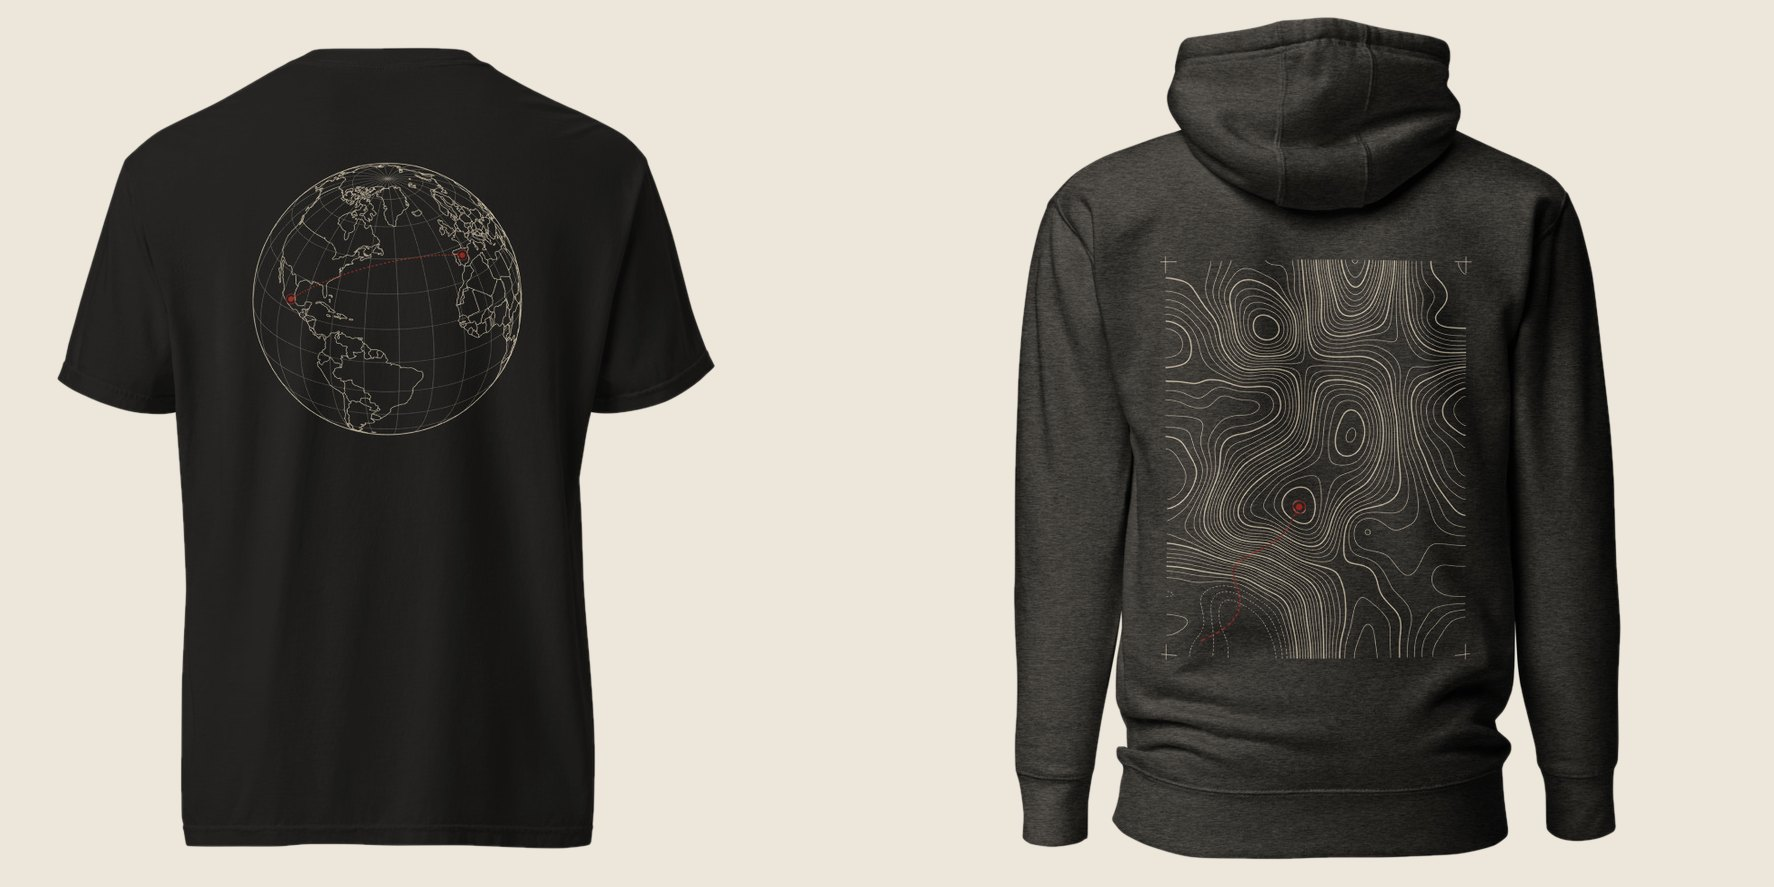
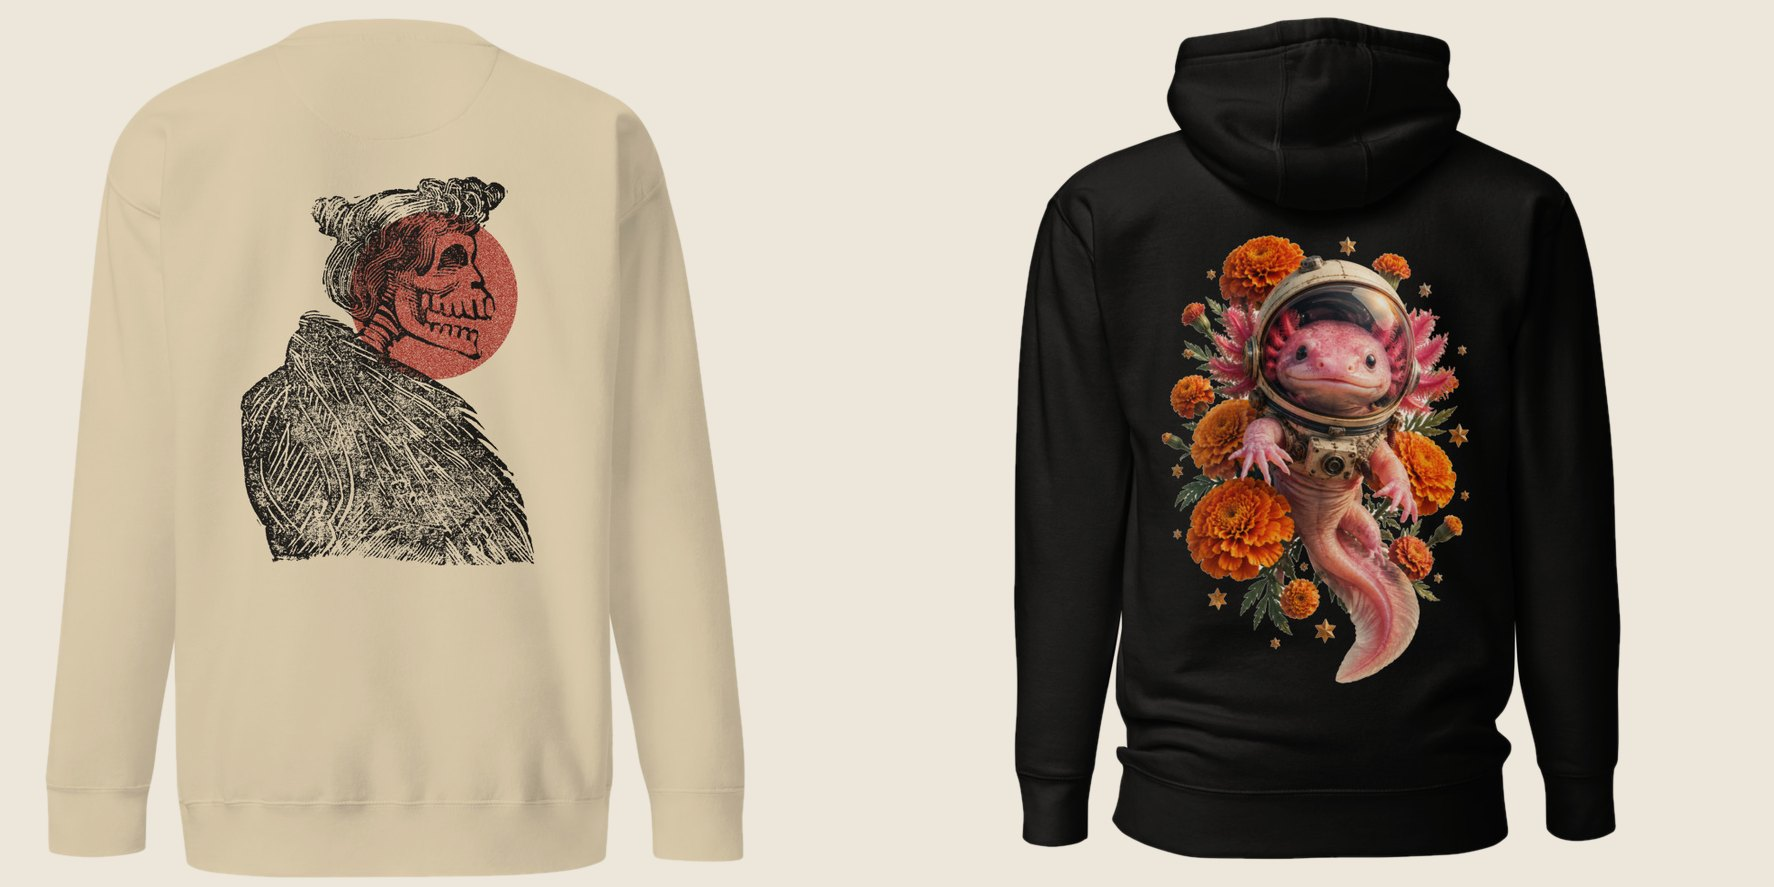
Portada con la colección realista y kit de lanzamiento para redes
Claude-Session: https://claude.ai/code/session_013DNV1jFrcSM7ktCTz4AAyr

diff --git a/index.html b/index.html
@@ -24,7 +24,7 @@
 
   <main>
     <section class="hero">
-      <img class="hero__img" src="assets/img/hero-studio.jpg" alt="Hoodie Escalera al sol y playeras Topografía y Ciudad a pulso">
+      <img class="hero__img" src="assets/img/hero-studio.jpg" alt="Hoodie Jaguar y playeras Ajolote astronauta y La ola">
       <div class="wrap hero__content">
         <p class="label">Drop 01 · CORE &amp; STUDIO</p>
         <h1>Hecho<br>a pulso.</h1>
@@ -57,7 +57,7 @@
 
     <section class="section section--dark">
       <div class="wrap split">
-        <img src="assets/img/studio-duo.jpg" alt="Playera Beyond Borders y hoodie Topografía" loading="lazy">
+        <img src="assets/img/studio-duo.jpg" alt="Crewneck Calavera y hoodie Ajolote astronauta" loading="lazy">
         <div>
           <p class="label">La marca</p>
           <h2>Tu ritmo.<br>Tu camino.</h2>

diff --git a/docs/lanzamiento.md b/docs/lanzamiento.md
@@ -1,0 +1,62 @@
+# Lanzamiento HSTLRS: plan para empezar a vender
+
+Tienda: **https://hstlrs-shop.github.io** · Pago seguro con Shopify · WhatsApp 55 8014 9227
+
+Las imágenes están en `docs/redes/` (formato 1080×1350, listo para Instagram, Facebook y TikTok).
+
+## 1. Hoy (30 min)
+
+1. Crea **@hstlrs** en Instagram y TikTok (cuenta de empresa, categoría "Tienda de ropa").
+   - Bio: `Ropa con arte. Hecha a pulso en México 🇲🇽 · Pide en la web 👇`
+   - Enlace: https://hstlrs-shop.github.io
+2. Sube los 8 posts en carrusel o uno por día (textos abajo).
+3. Manda el enlace por WhatsApp a tus contactos y súbelo a tus estados: los primeros pedidos casi siempre salen de ahí.
+4. Shopify → **Canales de ventas** → agrega **Facebook e Instagram** y **Google y YouTube**: tus productos salen gratis en Instagram Shopping y en Google Shopping.
+
+## 2. Textos para publicar
+
+**Post 1 · Hoodie Jaguar ($1,299)**
+> El jaguar no pide permiso. 🐆🔴
+> Hoodie de felpa premium con arte realista en la espalda. Hecho bajo pedido para ti.
+> 🛒 Enlace en la bio · Envío a todo México
+> #streetwearmexico #ropamexicana #hoodie #jaguar #modaurbana #hechoenmexico
+
+**Post 2 · Playera Ajolote astronauta ($849)**
+> El ajolote más lejos de Xochimilco que verás hoy. 🚀🌼
+> Arte a todo color sobre playera pesada Comfort Colors.
+> 🛒 Enlace en la bio
+> #ajolote #axolotl #cempasuchil #playerasmexico #streetwear #arte
+
+**Post 3 · Playera La ola ($849)**
+> La gran ola, con nuestro sol rojo. 🌊🔴
+> Grabado clásico reinterpretado sobre playera marfil.
+> #hokusai #thegreatwave #arteenropa #streetwearmx
+
+**Post 4 · Crewneck Calavera ($1,199)**
+> Posada lo dijo primero: todos somos calaveras. 💀
+> Sudadera cuello redondo con grabado de José Guadalupe Posada.
+> #posada #calavera #diademuertos #sudadera #modamexicana
+
+**Post 5 · Playera Rinoceronte ($849)**
+> 1515. Durero nunca vio un rinoceronte y aun así lo dibujó así. 🦏
+> Trazo crema sobre negro, con el sol rojo HSTLRS.
+> #durero #rinoceronte #arteclasico #playeras
+
+**Post 6 · Hoodie Ajolote ($1,299)** · **Post 7 · Crewneck Escalera al sol ($1,199)** · **Post 8 · Playera El caballero ($849)**
+> Usa el mismo formato: una frase corta + qué es la prenda + "Enlace en la bio".
+
+**Promoción fija para todos los posts:**
+> 10% en tu primera compra con el código **HSTLR10** · 15% al llevar 3 piezas · Envío gratis desde $1,050
+
+## 3. Anuncios (cuando tengas los primeros 2-3 pedidos)
+
+- **Meta Ads** (Instagram + Facebook), público: México, 18-34, intereses streetwear, arte, tatuajes, cultura mexicana.
+- Empieza con **$100–150 MXN al día** en 2 anuncios: Hoodie Jaguar y Playera Ajolote.
+- Si en 3 días un anuncio no da clics baratos (menos de $5 por clic), apágalo y prueba otro diseño.
+- Tu ganancia por pieza es de $300 a $450: con 1 venta cada $300 de anuncio, ya ganas.
+
+## 4. Lo que ya funciona solo
+
+- Pago en Shopify, producción y envío por Printful, guía de rastreo automática al cliente.
+- Chat 24/7 en la página y botón de WhatsApp.
+- Revisión de pedidos cada 3 horas, que detiene los sospechosos de fraude. Para que confirme pedidos falta activarle el conector de Shopify.
